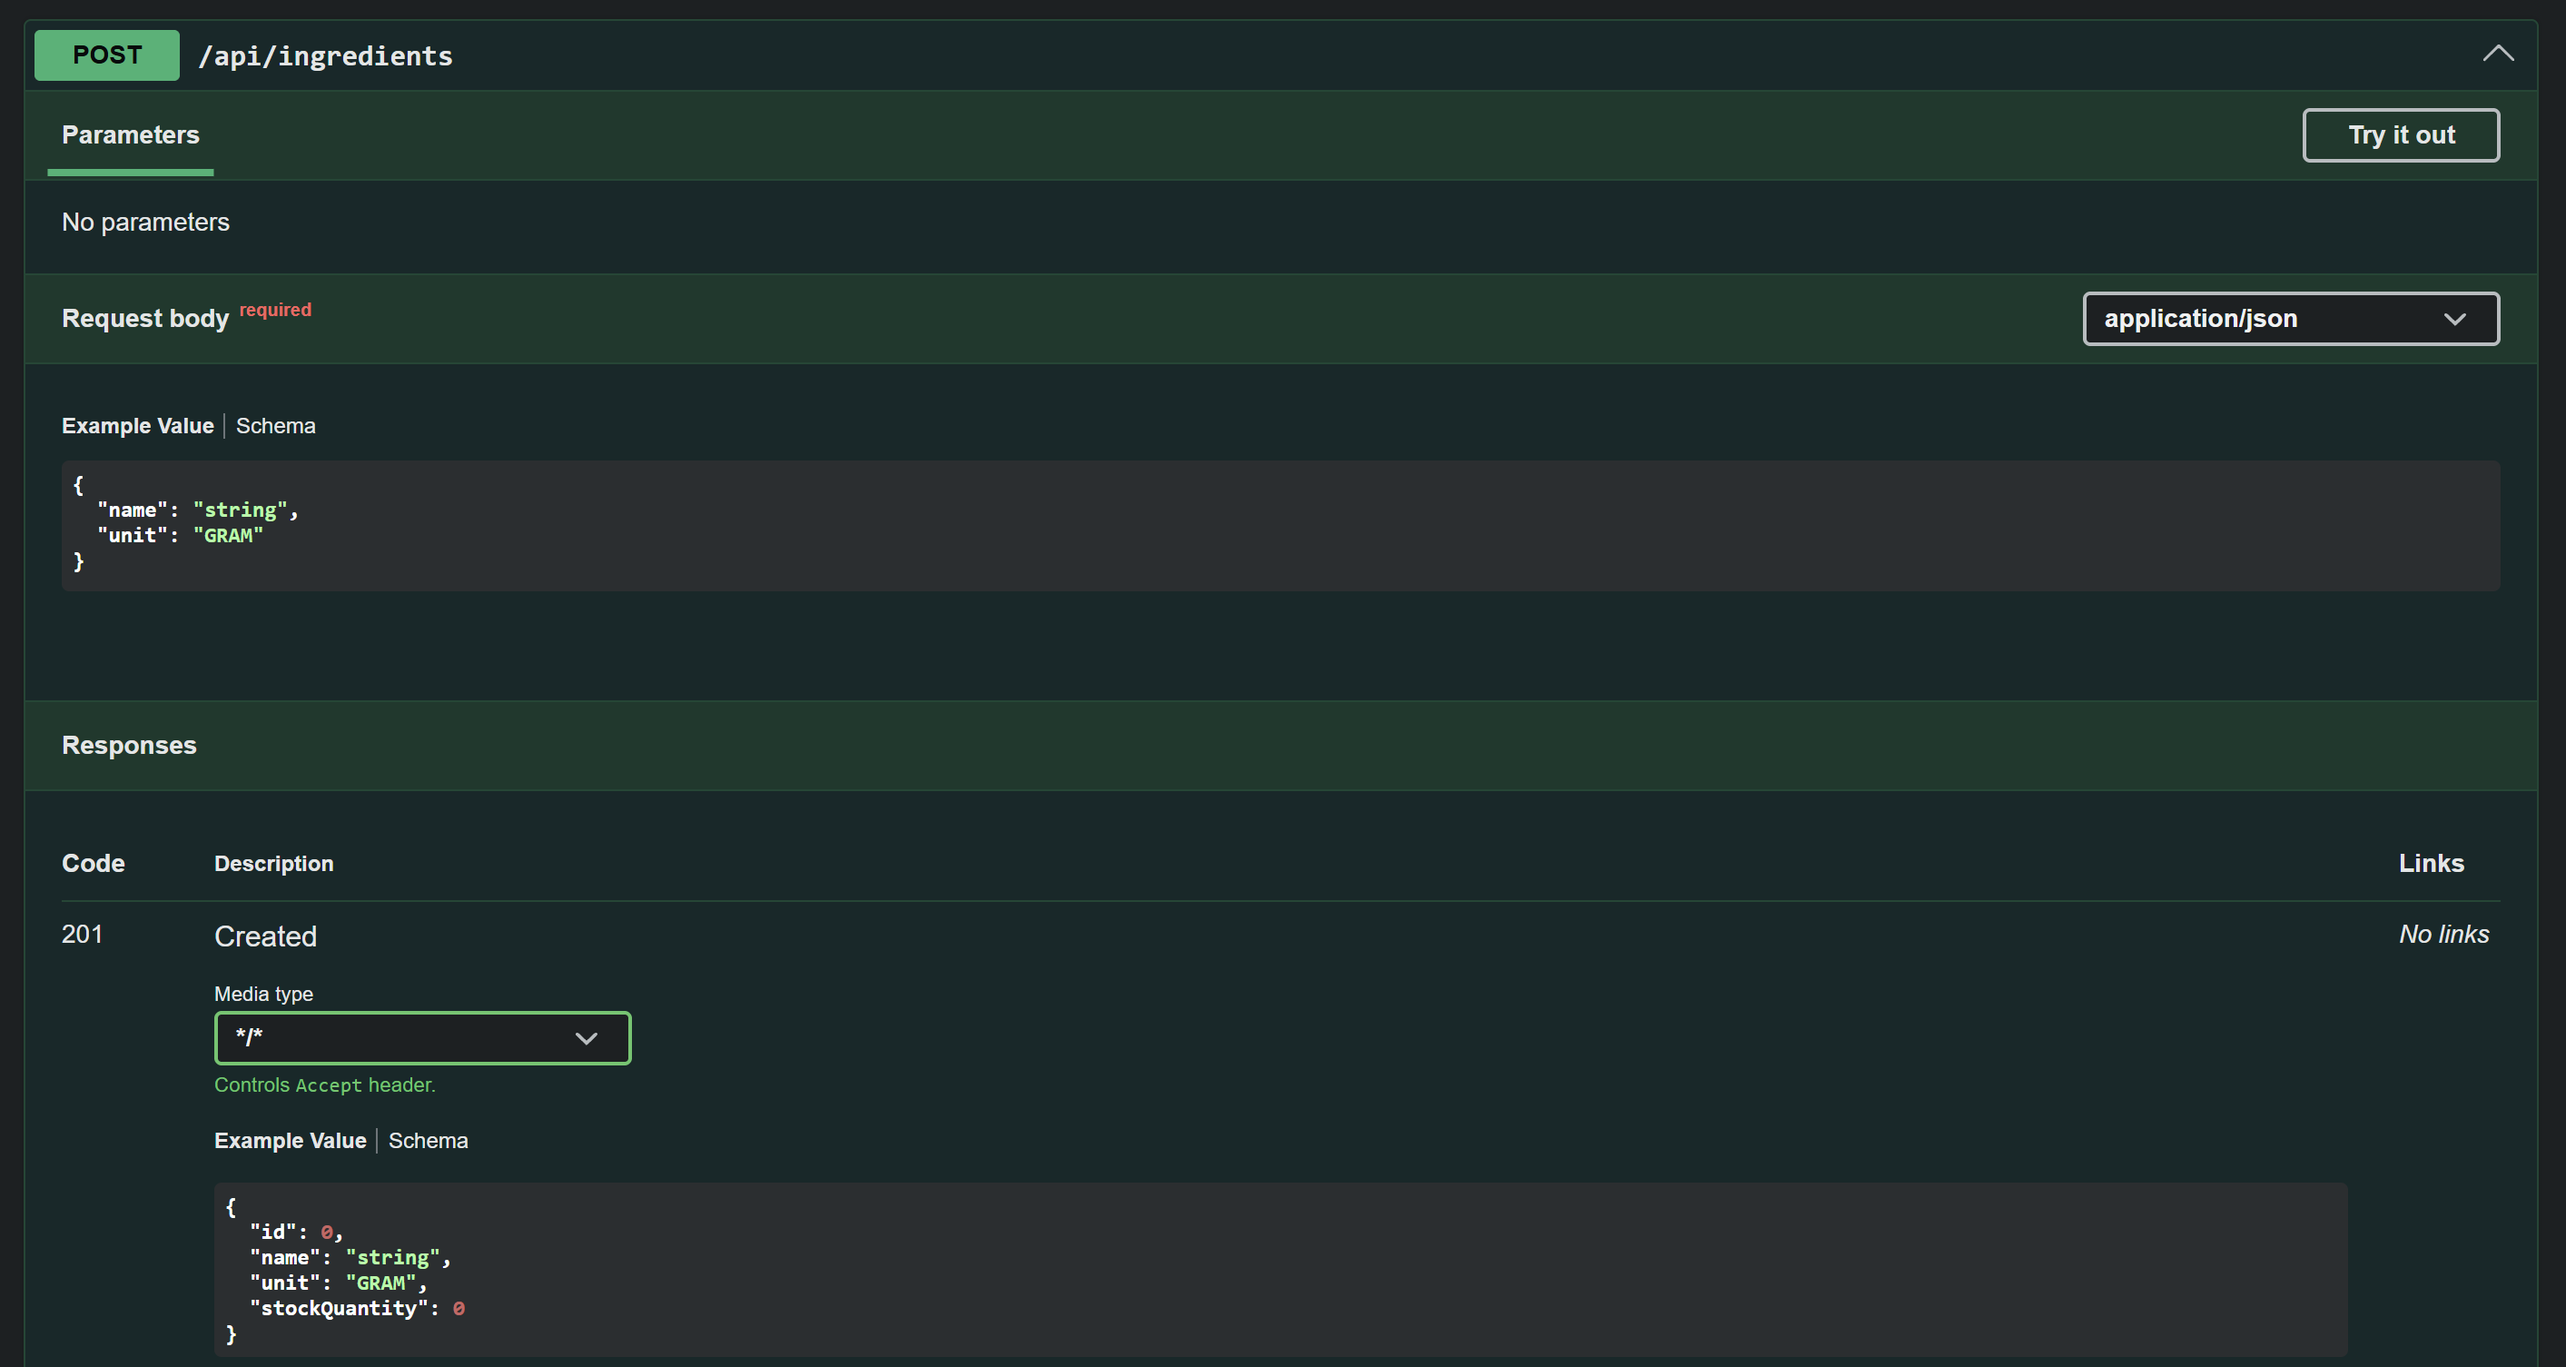
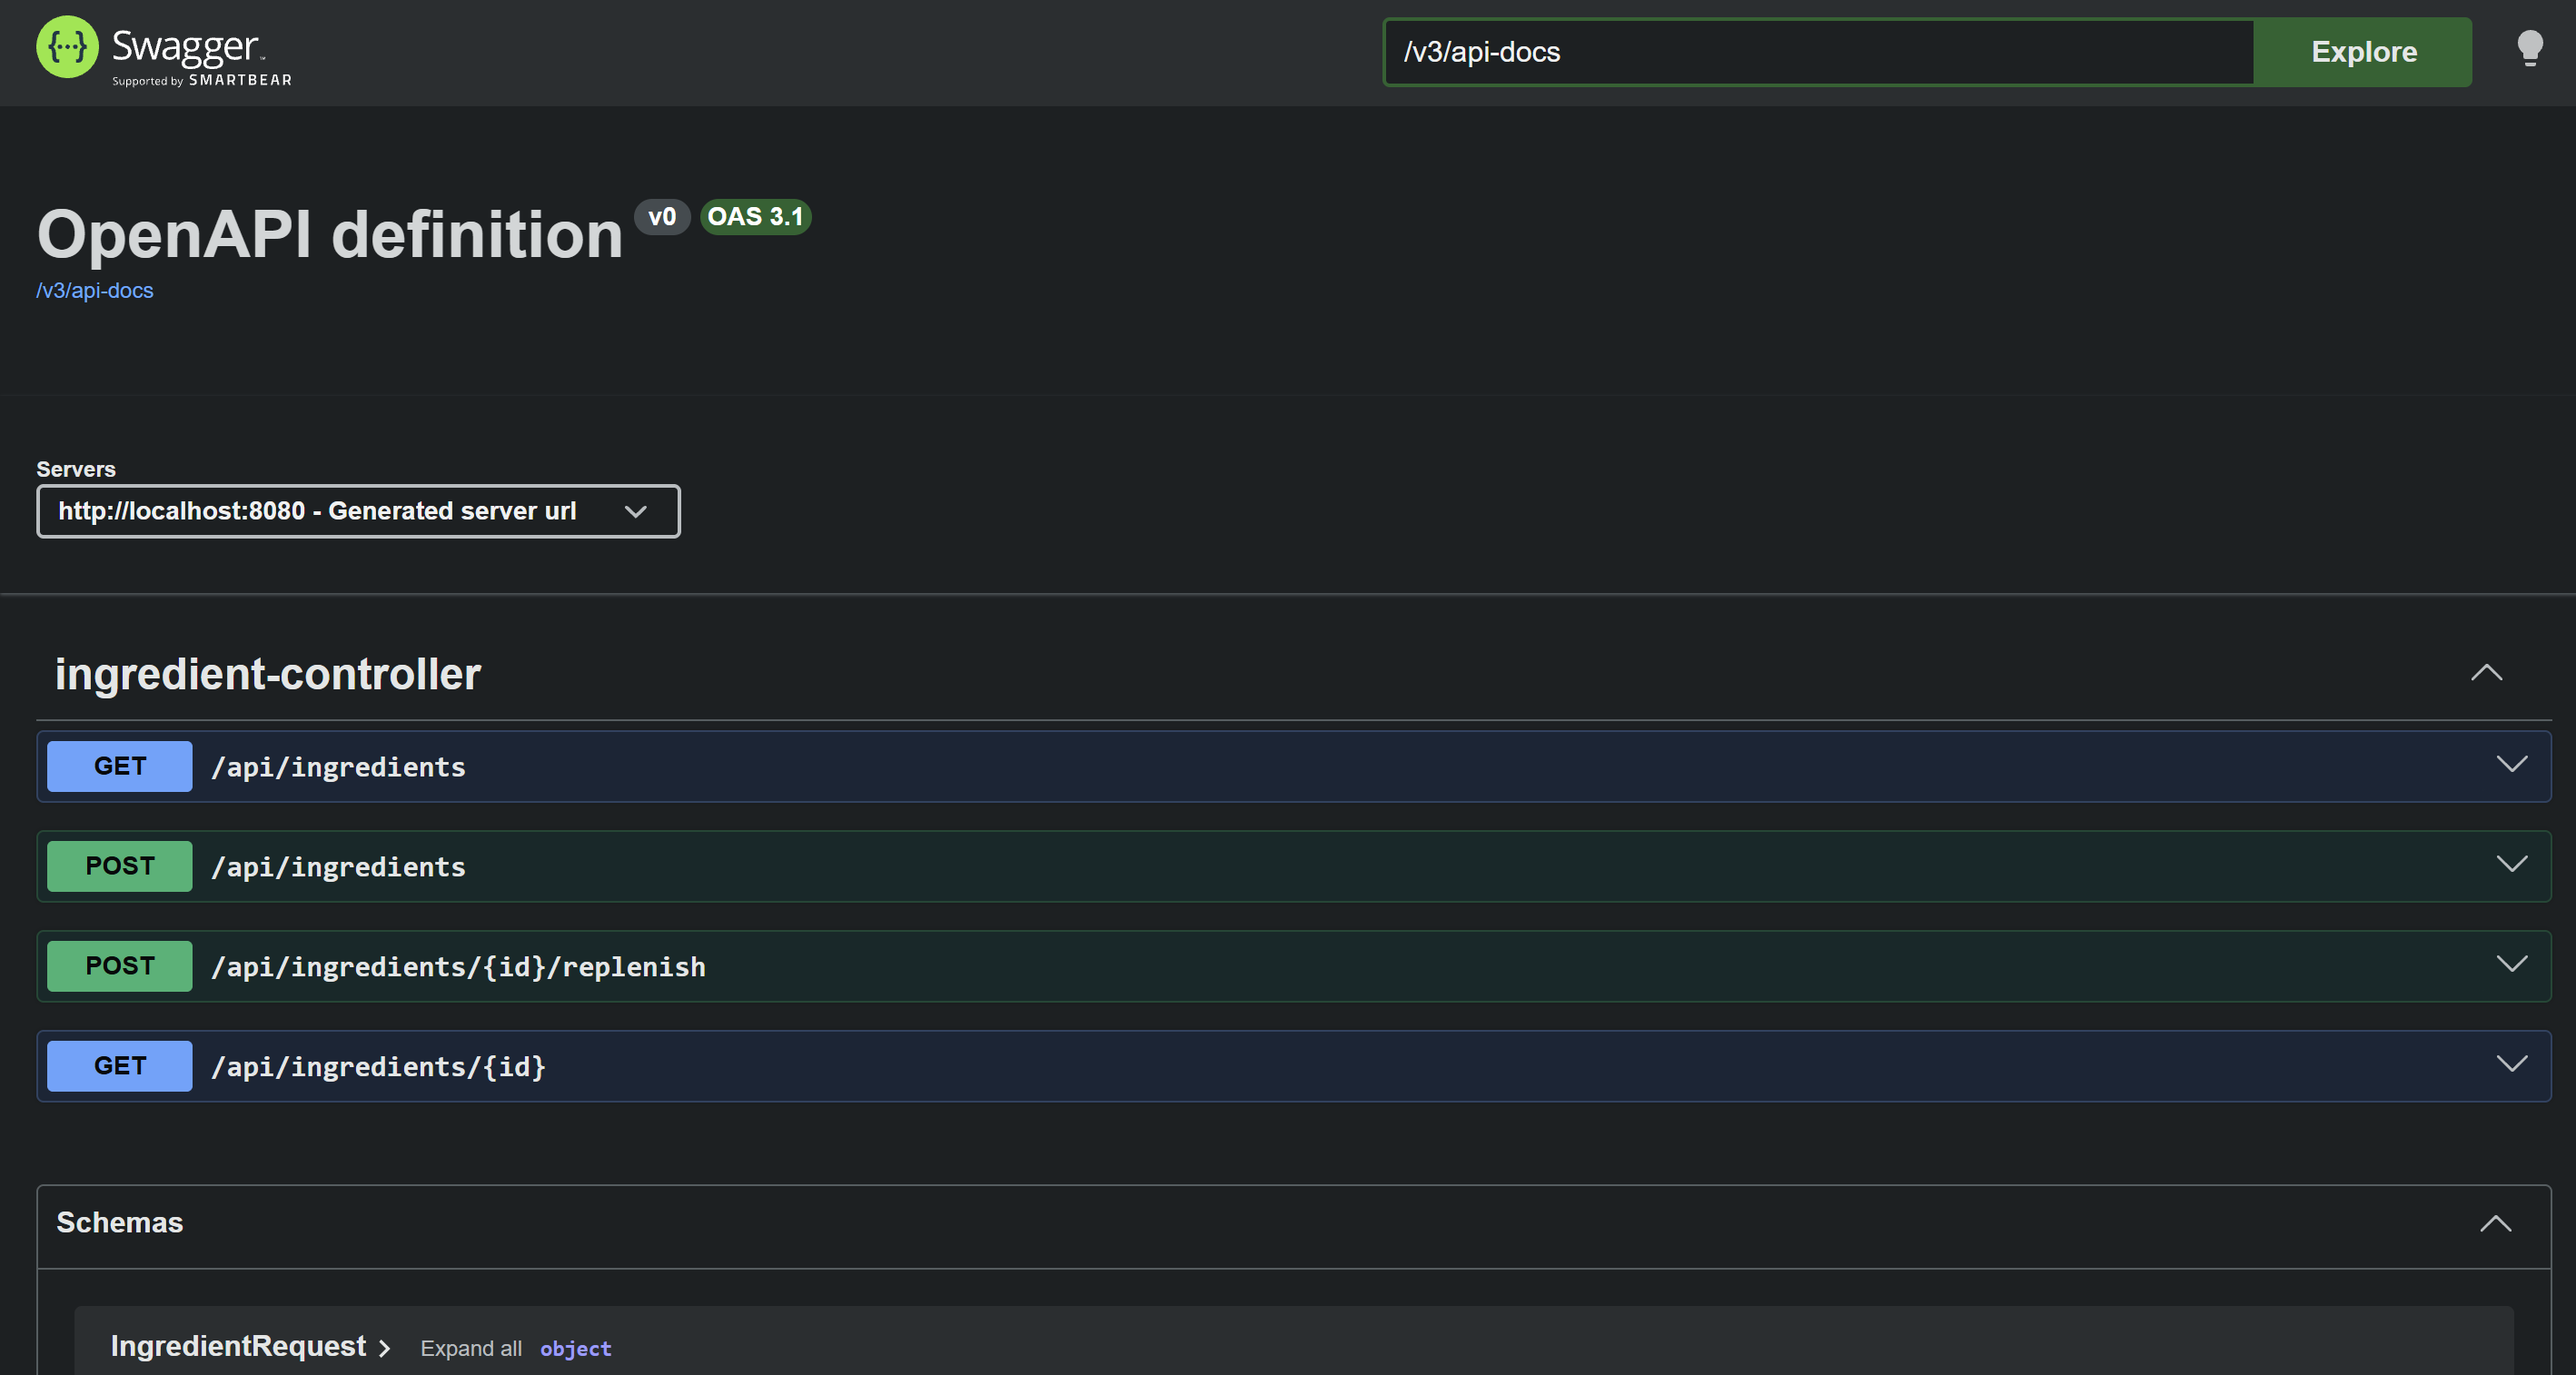
docs: add swagger ui screenshot to README

diff --git a/README.md b/README.md
@@ -32,6 +32,8 @@ To explore the API, run the Spring Boot application locally and navigate to:
 
 http://localhost:8080/swagger-ui.html
 
+![Swagger UI API Documentation](docs/swagger-ui.png)
+
 ### Current Endpoints
 
 | Method | Endpoint | Description |
